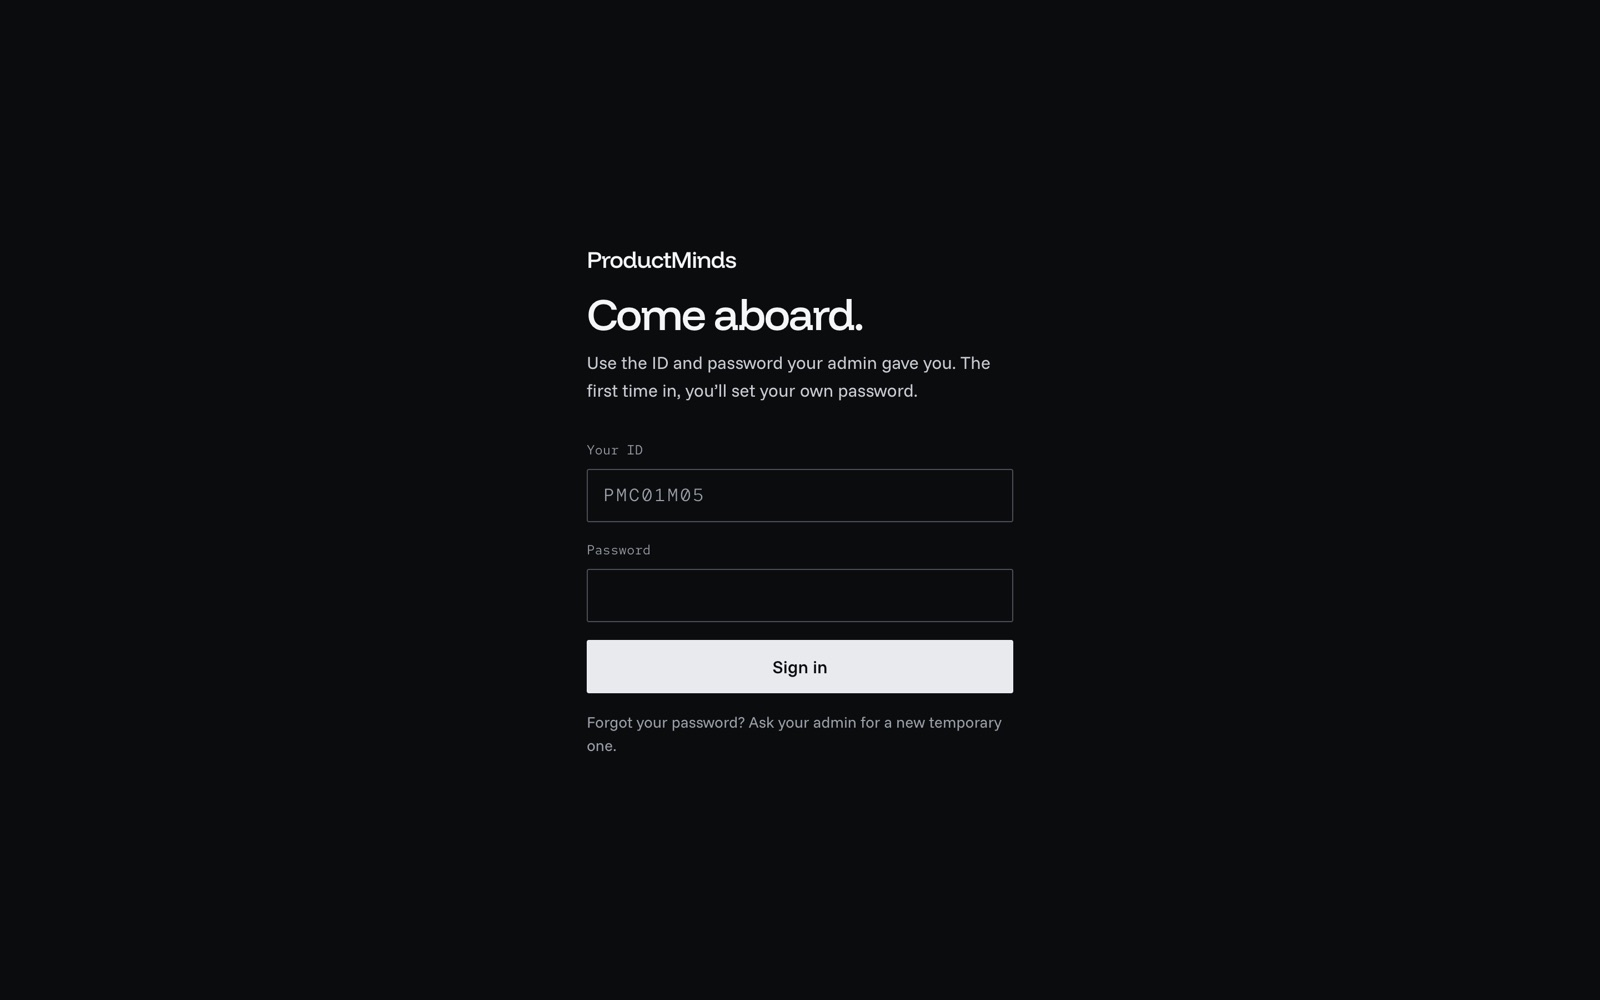
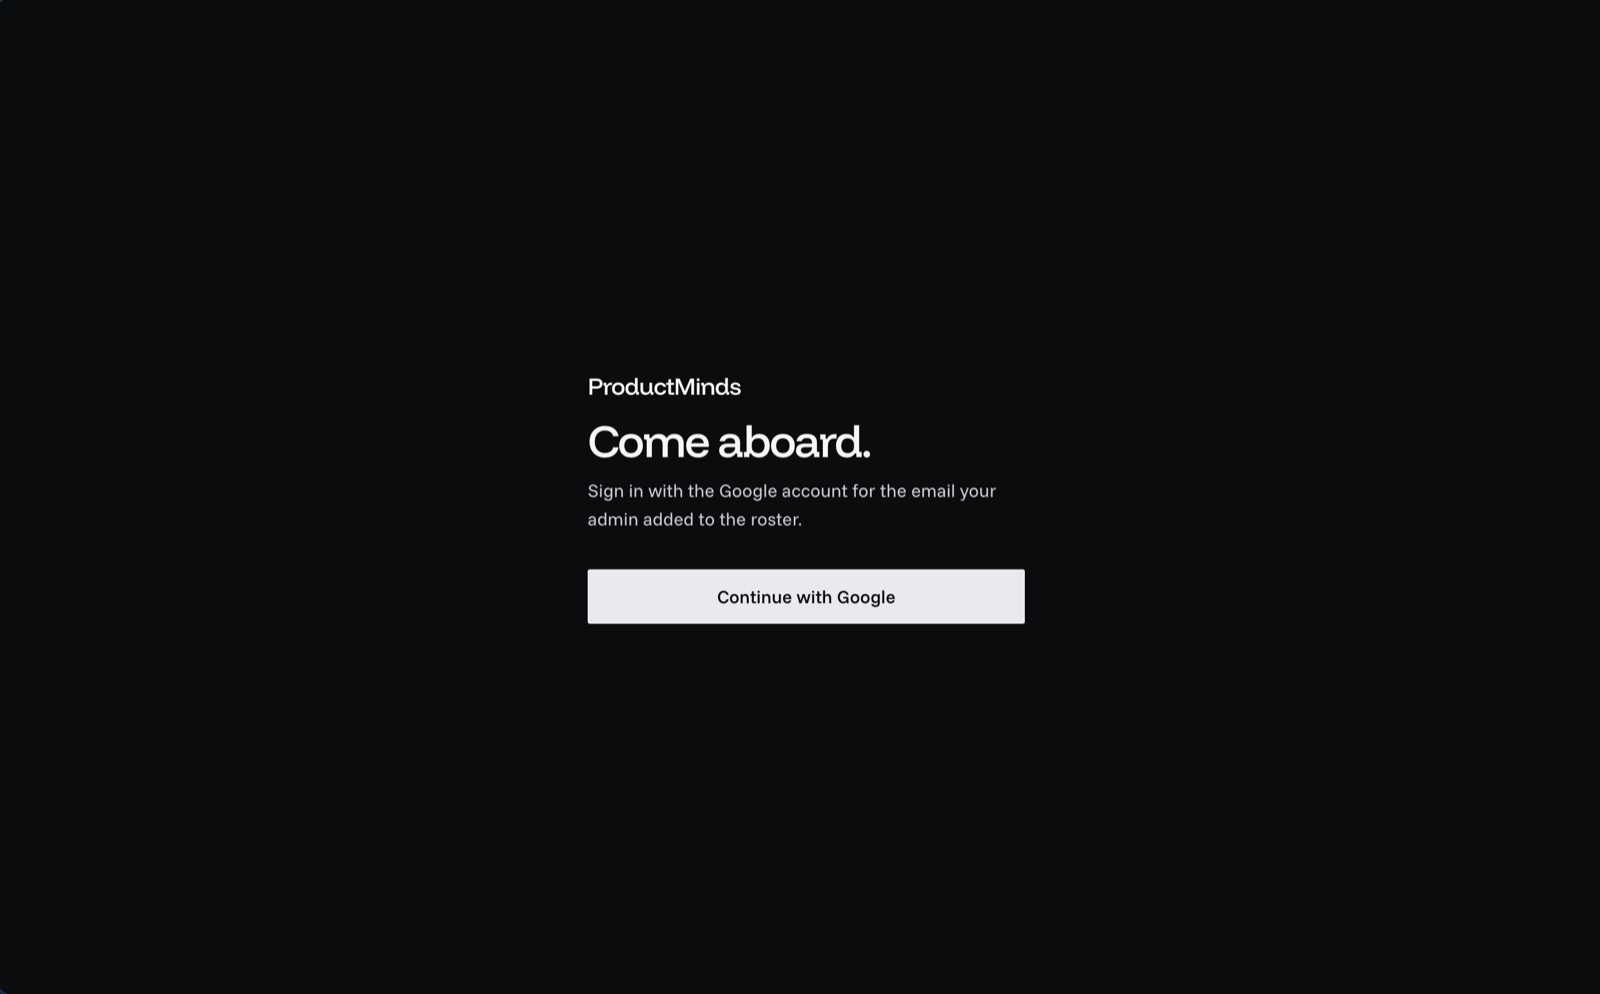
Add Raasta project and more ProductMinds screenshots

Changed region(s): [[0.3438, 0.4366, 0.6562, 0.7485], [0.3438, 0.2495, 0.625, 0.4054], [0.0, 0.998, 0.0312, 1.0]]

diff --git a/src/content/projects.ts b/src/content/projects.ts
@@ -1,6 +1,16 @@
 import type { StaticImageData } from "next/image";
+import pmCrewDesktop from "./shots/productminds-crew-desktop.jpg";
+import pmHomeDesktop from "./shots/productminds-home-desktop.jpg";
 import pmLoginDesktop from "./shots/productminds-login-desktop.jpg";
 import pmLoginMobile from "./shots/productminds-login-mobile.jpg";
+import pmPostsDesktop from "./shots/productminds-posts-desktop.jpg";
+import pmVoyageDesktop from "./shots/productminds-voyage-desktop.jpg";
+import raAskMobile from "./shots/raasta-ask-mobile.jpg";
+import raCareersDesktop from "./shots/raasta-careers-desktop.jpg";
+import raHomeDesktop from "./shots/raasta-home-desktop.jpg";
+import raHomeMobile from "./shots/raasta-home-mobile.jpg";
+import raMythsMobile from "./shots/raasta-myths-mobile.jpg";
+import raQuizMobile from "./shots/raasta-quiz-mobile.jpg";
 import ugAboutMobile from "./shots/ungatekeep-about-mobile.jpg";
 import ugHomeDesktop from "./shots/ungatekeep-home-desktop.jpg";
 import ugHomeMobile from "./shots/ungatekeep-home-mobile.jpg";
@@ -91,18 +101,131 @@ export const projects: Project[] = [
     ],
     stack: ["Next.js 16", "React 19", "Supabase", "Tailwind 4", "TypeScript"],
     live: "https://productminds.vercel.app",
-    shotsNote: "The portal itself is members-only, so this is the front door.",
+    shotsNote: "The portal is members-only, so these are from an admin account.",
     shots: [
       {
         src: pmLoginDesktop,
-        alt: "ProductMinds sign-in screen on desktop: \"Come aboard.\" with member ID and password fields",
-        caption: "Sign in with the member ID your admin gives you.",
+        alt: "ProductMinds sign-in screen on desktop: \"Come aboard.\" with a Continue with Google button",
+        caption: "Sign in with the Google account your admin added to the roster.",
+        device: "desktop",
+      },
+      {
+        src: pmHomeDesktop,
+        alt: "ProductMinds home: an admin-only row of counts, then cards for sessions, your stake and this week's checkpoint",
+        caption: "Home. Admins get a row of what needs doing; everything below it is what every member sees.",
+        device: "desktop",
+      },
+      {
+        src: pmVoyageDesktop,
+        alt: "ProductMinds Voyage page: four phases across the top and each week's sessions listed with their status",
+        caption: "The voyage, phase by phase and session by session.",
+        device: "desktop",
+      },
+      {
+        src: pmCrewDesktop,
+        alt: "ProductMinds Crew page: a table of members with attendance, posts and stake",
+        caption: "Crew, as admins see it.",
+        device: "desktop",
+      },
+      {
+        src: pmPostsDesktop,
+        alt: "ProductMinds Posts page for admins with an empty queue: \"Nothing to check.\"",
+        caption: "Admins confirm each post before it counts toward the stake.",
         device: "desktop",
       },
       {
         src: pmLoginMobile,
         alt: "ProductMinds sign-in screen on a phone",
         caption: "Built phone-first, like everything inside.",
+        device: "mobile",
+      },
+    ],
+  },
+  {
+    slug: "raasta",
+    name: "Raasta",
+    year: "2026",
+    status: "Live",
+    kind: "Career guidance for students",
+    pitch: "Find a career that fits you, with honest pay, real cutoffs and no sign-up.",
+    problem:
+      "Choosing a stream, then a course, then a college is one of the biggest decisions a student makes, and most of the information out there is scattered, sales-driven or written for people who already know what they want. About 1 in 10 students in India get any professional career guidance, and the tests and counselling that exist often cost ₹1,000 to ₹5,000.",
+    features: [
+      {
+        title: "Start from what you know",
+        body: "Four ways in: I know my stream, I'm choosing a college, I'm deciding between two careers, and I've heard something and want to check it.",
+      },
+      {
+        title: "A 1-minute quiz",
+        body: "Six everyday questions, like what you'd pick on a free Saturday. No wrong answers, and the result is a starting point, not a verdict.",
+      },
+      {
+        title: "41 careers, 64 colleges",
+        body: "Search and filter careers by field, see which streams lead to each, and compare colleges on cutoffs, fees and placements.",
+      },
+      {
+        title: "Compare two careers",
+        body: "Pay, subjects, exams and the path to get there, side by side.",
+      },
+      {
+        title: "Myth buster",
+        body: "\"Only IIT matters.\" \"Design and art don't pay.\" The things people tell students, checked against real data.",
+      },
+      {
+        title: "Ask Raasta",
+        body: "An AI guide that answers from Raasta's checked data and can use your quiz result, stream and saved careers if you've shared them. Chats aren't saved.",
+      },
+    ],
+    decisions: [
+      "No sign-up. Saved careers stay on the device, with a way to move them to another one.",
+      "Every pay, fee and cutoff figure is labelled official, reported or a rough estimate, and each career links to the official site.",
+      "The quiz and suggestions are starting points to talk through with family and teachers, not decisions.",
+      "Analytics count anonymous views and steps, with no cookies and nothing that identifies a student.",
+      "Career stress is normal, so every page points to Tele-MANAS (14416), the government's free 24x7 helpline.",
+    ],
+    facts: [
+      { value: "41", label: "careers" },
+      { value: "64", label: "colleges" },
+      { value: "6", label: "quiz questions" },
+      { value: "0", label: "sign-ups needed" },
+    ],
+    stack: ["Next.js", "Vercel"],
+    live: "https://raastaai.vercel.app",
+    shots: [
+      {
+        src: raHomeDesktop,
+        alt: "Raasta home page: \"Find a career that fits you\" with a quiz button and four ways to start",
+        caption: "Start from what you already know.",
+        device: "desktop",
+      },
+      {
+        src: raCareersDesktop,
+        alt: "Raasta Explore careers page with search, field filters and career cards tagged by stream",
+        caption: "41 careers, filterable by field and tagged by stream.",
+        device: "desktop",
+      },
+      {
+        src: raHomeMobile,
+        alt: "Raasta home page on a phone with a bottom tab bar",
+        caption: "Built for the phone most students actually have.",
+        device: "mobile",
+      },
+      {
+        src: raQuizMobile,
+        alt: "Raasta quiz on a phone: \"A free Saturday. What do you pick?\" with four options",
+        caption: "Six questions. Go with your first instinct.",
+        device: "mobile",
+      },
+      {
+        src: raMythsMobile,
+        alt: "Raasta myth buster on a phone listing common myths about streams and careers",
+        caption: "Myths, checked against data.",
+        device: "mobile",
+      },
+      {
+        src: raAskMobile,
+        alt: "Ask Raasta on a phone: an AI guide with suggested questions",
+        caption: "An AI guide that answers from Raasta's own data.",
         device: "mobile",
       },
     ],
